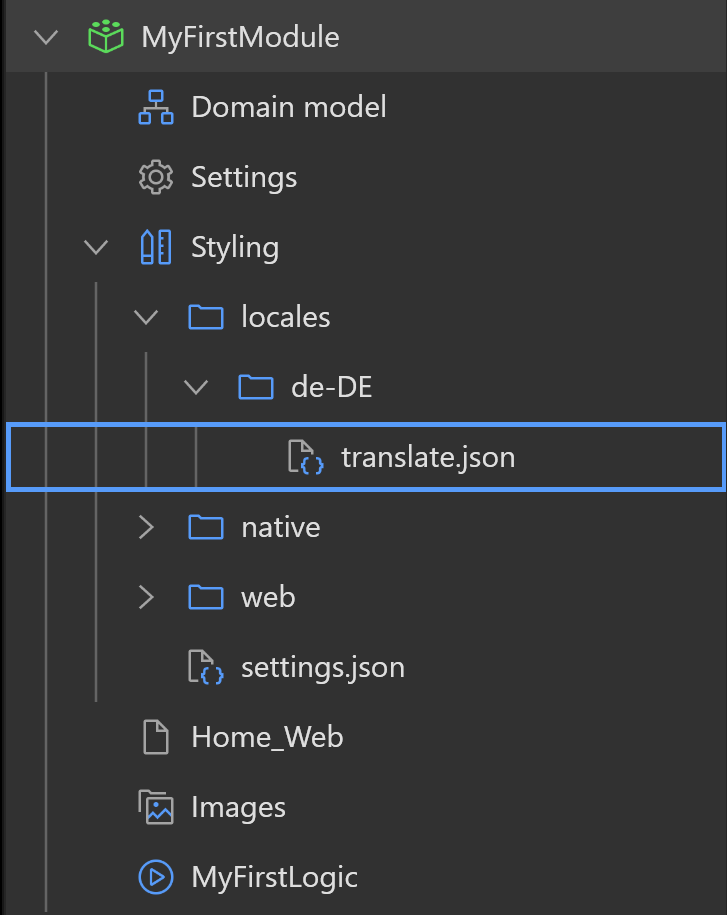
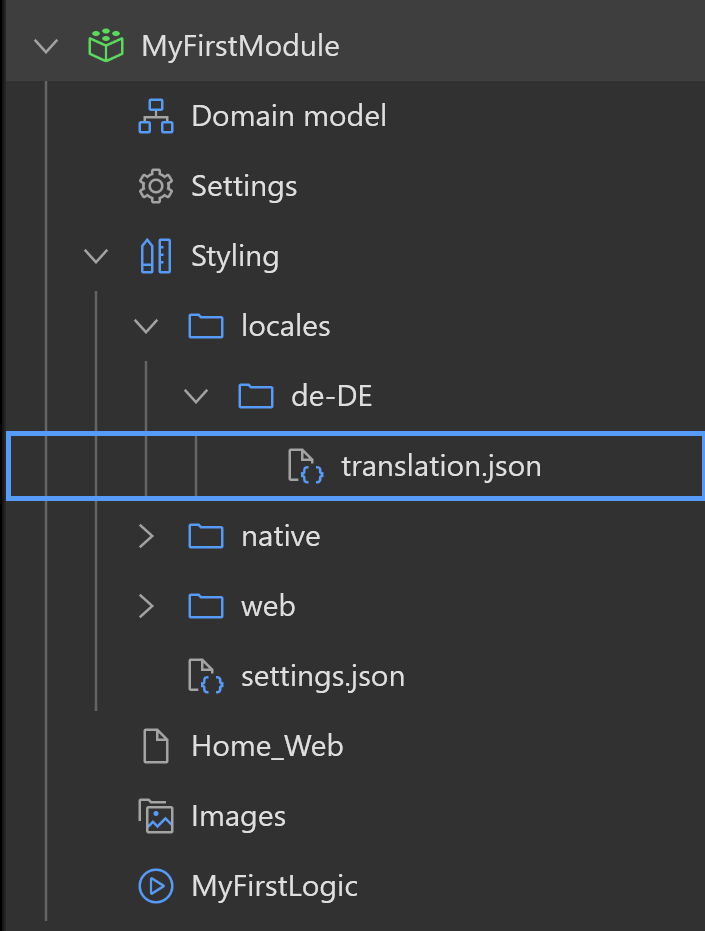
Fix: rename translate.json to translation.json

diff --git a/content/en/docs/apidocs-mxsdk/apidocs/frontend/design-properties.md b/content/en/docs/apidocs-mxsdk/apidocs/frontend/design-properties.md
@@ -744,11 +744,11 @@ When the **Small** option is selected, the `borderRadiusSmall` class will be app
 
 Design properties can be translated to match the users preferred user interface language. This includes the name of the design property, its description and any of its options, if it has any, as shown in the styling properties panel. The provided translations do not affect the behavior of the design property.
 
-To provide translations for your design properties, create a file *locales/{language-code}/translate.json* in the Styling folder of your module. The language code can be any of the user interface languages supported by Studio Pro, such as *de-DE*, *en-US*, *ja-JP*, *ko-KR* or *zh-CN*. Other files in the *locales/{language-code}* folders will be ignored. As a result, custom namespaces can't be used. The resulting structure could look like this:
+To provide translations for your design properties, create a file *locales/{language-code}/translation.json* in the Styling folder of your module. The language code can be any of the user interface languages supported by Studio Pro, such as *de-DE*, *en-US*, *ja-JP*, *ko-KR* or *zh-CN*. Other files in the *locales/{language-code}* folders will be ignored. As a result, custom namespaces can't be used. The resulting structure could look like this:
 
-{{< figure src="/attachments/apidocs-mxsdk/apidocs/design-properties/translations.png" alt="A translate.json file in the Styling/locales/de-DE folder" class="no-border" >}}
+{{< figure src="/attachments/apidocs-mxsdk/apidocs/design-properties/translations.png" alt="A translation.json file in the Styling/locales/de-DE folder" class="no-border" >}}
 
-These json files follow the format used by the I18next library, specifically v3. See [their documentation on the format](https://www.i18next.com/misc/json-format) for more information. For example to translate a design property with the name *Text align* with the options *left*, *center* and *right*, the contents of *locales/de-DE/translate.json* might look something like this:
+These json files follow the format used by the I18next library, specifically v3. See [their documentation on the format](https://www.i18next.com/misc/json-format) for more information. For example to translate a design property with the name *Text align* with the options *left*, *center* and *right*, the contents of *locales/de-DE/translation.json* might look something like this:
 
 
 ```json
@@ -762,7 +762,7 @@ These json files follow the format used by the I18next library, specifically v3.
 
 All design properties and options with the same name will be translated the same way, even if they are defined in different modules. When two or more modules define a translation for the same design property or design property option, the one used is not guaranteed to be the same as the one outlined in [Extending or Overriding Design Properties of Other Modules](#extend-existing-design-properties). As a result, it is recommended to only translate design properties and design property options in the same module in which they are defined.
 
-If a translation is not available, the names and descriptions as defined in the *design-properties.json* are used as a fallback instead. For example, the user changes their settings to work with Studio Pro in German, but the module does not have a *locales/de-DE/translate.json* file. This can also happen if the name of a design property, any of its options or descriptions are missing from the corresponding *translate.json* file.
+If a translation is not available, the names and descriptions as defined in the *design-properties.json* are used as a fallback instead. For example, the user changes their settings to work with Studio Pro in German, but the module does not have a *locales/de-DE/translation.json* file. This can also happen if the name of a design property, any of its options or descriptions are missing from the corresponding *translation.json* file.
 
 {{% alert color="warning" %}}
 When adding translations for existing design properties, do not change the name of existing design properties or their options as defined in *design-properties.json*. Those names cannot be changed easily when there are apps already using them. See the [Renaming Design Properties](#old-names) section.

diff --git a/content/en/docs/apidocs-mxsdk/apidocs/frontend/pluggable-widgets/_index.md b/content/en/docs/apidocs-mxsdk/apidocs/frontend/pluggable-widgets/_index.md
@@ -336,9 +336,9 @@ If there's no translations available for a users preferred user interface langua
 
 ### Providing Translations in a Pluggable Widget Package
 
-To support a translation for a specific language and locale, create a *locales/{language-code}/{widget ID}.json* or *locales/{language-code}/translate.json* file. The language code can be any of the user interface languages supported by Studio Pro, such as *de-DE*, *en-US*, *ja-JP*, *ko-KR* or *zh-CN*. Other files in the *locales* folder will be ignored. As a result, custom namespaces can't be used. It's advised to use *translate.json*, unless your mpk contains multiple pluggable widgets. Note that if you use the widget ID as the file name, you'll have to replace any spaces and illegal path characters (if there are any) with underscores. The file name should be all lower case. For example: if your widget ID is *%My Pluggable Widget%*, the name of the file should be *_my_pluggable_widget_.json*.
+To support a translation for a specific language and locale, create a *locales/{language-code}/{widget ID}.json* or *locales/{language-code}/translation.json* file. The language code can be any of the user interface languages supported by Studio Pro, such as *de-DE*, *en-US*, *ja-JP*, *ko-KR* or *zh-CN*. Other files in the *locales* folder will be ignored. As a result, custom namespaces can't be used. It's advised to use *translation.json*, unless your mpk contains multiple pluggable widgets. Note that if you use the widget ID as the file name, you'll have to replace any spaces and illegal path characters (if there are any) with underscores. The file name should be all lower case. For example: if your widget ID is *%My Pluggable Widget%*, the name of the file should be *_my_pluggable_widget_.json*.
 
-These json files follow the format used by the I18next library, specifically v3. See [their documentation on the format](https://www.i18next.com/misc/json-format) for more information. For example to translate a widget with the name *Text Box* that has a property *length*, the contents of *locales/de-DE/translate.json* might look something like this:
+These json files follow the format used by the I18next library, specifically v3. See [their documentation on the format](https://www.i18next.com/misc/json-format) for more information. For example to translate a widget with the name *Text Box* that has a property *length*, the contents of *locales/de-DE/translation.json* might look something like this:
 
 ```json
 {
